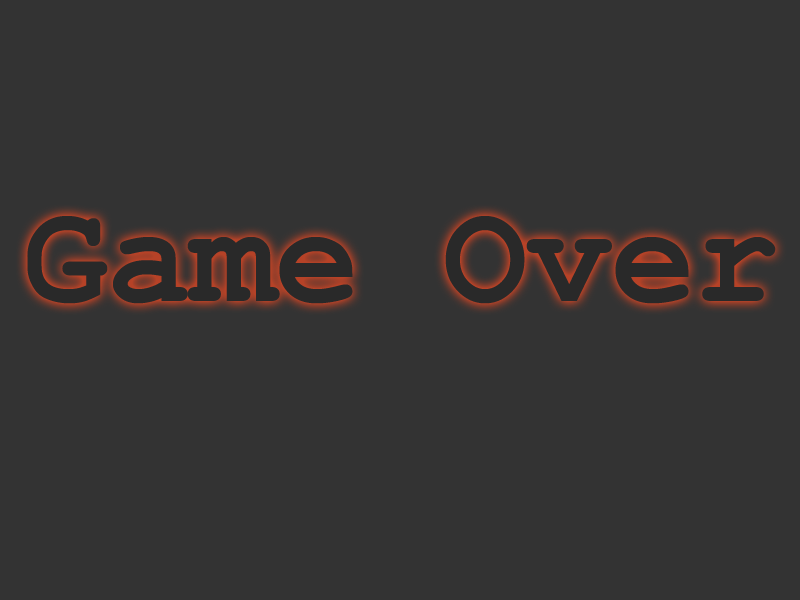
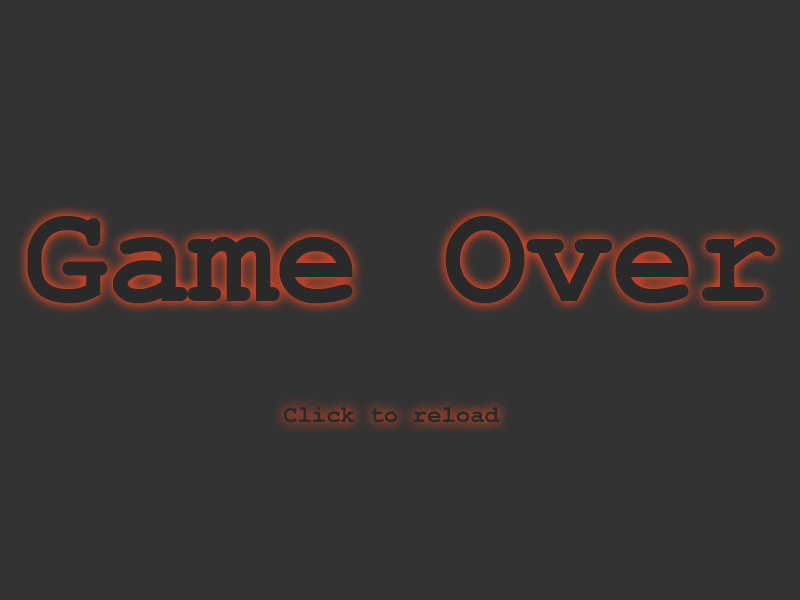
save changed script, handle any key on screens

Changed region(s): [[0.3438, 0.66, 0.625, 0.72]]

diff --git a/index.html b/index.html
@@ -23,6 +23,7 @@
     #hacking-tool textarea {
       display: block;
       width: 100%;
+      height: 100%;
     }
     #hacking-tool button {
       display: block;
@@ -55,7 +56,7 @@
     <img onclick="start_game();" src="title-screen.png" />
   </div>
   <div id="game-over-screen">
-    <img src="game-over-screen.png" />
+    <img onclick="location.reload();" src="game-over-screen.png" />
   </div>
   <div id="level-completed-screen">
     <img src="level-completed-screen.png" />
@@ -78,7 +79,7 @@ if(!window.KeyEvent) {
     DOM_VK_RIGHT: 0x27,
     DOM_VK_UP:    0x26,
     DOM_VK_DOWN:  0x28,
-    DOM_VK_SPACE:	32
+    DOM_VK_SPACE:	0x20
   };
 }
 
@@ -270,7 +271,8 @@ var Terminals = {
     if (KeyEvent.DOM_VK_SPACE in keysDown) {
       for(var i=0; i<this.regions.length; i++) {
         if(isPointInPoly(Player.x, Player.y, this.regions[i])) {
-          HackTool.show(this.functions[i].toString());
+          //HackTool.show(this.functions[i].toString());
+          HackTool.show(i);
           break;
         }
       }
@@ -288,6 +290,7 @@ var HackTool = {
   container: undefined,
   button: undefined,
   textarea: undefined,
+  current_terminal_index: -1,
   init: function() {
     this.container = document.getElementById("hacking-tool");
     this.textarea = document.getElementById("code");
@@ -295,17 +298,23 @@ var HackTool = {
     
     this.button.addEventListener("click", function (e) {
       eval("("+HackTool.textarea.value+")()");
+      HackTool.saveCode(HackTool.textarea.value);
       HackTool.hide(); // xxx: add a close button instead??
     });
   },
-  show: function(code) {
+  show: function(terminal_index) {
+    this.current_terminal_index = terminal_index;
     this.isEnabled = true;
-    this.textarea.value = code;
+    this.textarea.value = Terminals.functions[terminal_index].toString();
     this.container.style.display = "block";
   },
   hide: function() {
     this.container.style.display = "none";
     this.isEnabled = false;
+  },
+  saveCode: function(code) {
+    var fn = eval("("+code+")");
+    Terminals.functions[this.current_terminal_index] = fn;
   }
 };
 
@@ -388,7 +397,9 @@ var Level = {
           poly.push(elm[i].points[j].x);
           poly.push(elm[i].points[j].y);
         }
-        Terminals.create(poly, eval("("+script+")"));
+        var fn = eval("("+script+")");
+        Terminals.create(poly, fn);
+        fn();
       }
     }
   }
@@ -398,6 +409,14 @@ var Level = {
 var keysDown = {};
 
 addEventListener("keydown", function (e) {
+  if($("#title-screen").is(":visible")) {
+    $("#title-screen img").click();
+    return;
+  }
+  if($("#game-over-screen").is(":visible")) {
+    $("#game-over-screen img").click();
+    return;
+  }
   if(HackTool.isEnabled) return true;
   
 	keysDown[e.keyCode] = true;
